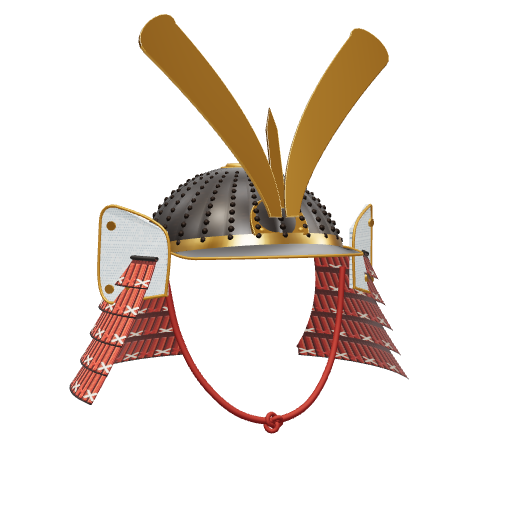
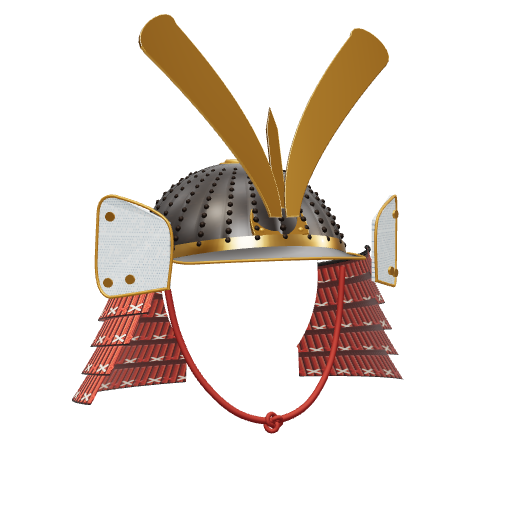
Wear the helmet like a head-wear lens
- Bowl sized for a head with hair, rim on the brows dropping to the nape
- Neck guard hangs from the rim all round; top lames come forward past
  the ears, lower ones sweep back; flaps turn back from its front edge
- Live face mesh (depth only) plus a larger skull occluder hide
  everything behind the real face and head
- Dark matte visor underside; name card shrinks after 5 s
- ?fakecam=<image> test mode runs real face tracking on a photo

Changed region(s): [[0.125, 0.3125, 0.8125, 0.8125], [0.5, 0.2188, 0.5312, 0.3125], [0.5312, 0.3125, 0.5625, 0.375]]

diff --git a/js/armour.js b/js/armour.js
@@ -26,7 +26,7 @@ const STYLES = {
     band: '#2a1810',
     visor: '#4a2a1b',
     plates: 32,
-    shikoro: { lames: 5, r0: 10.6, r1: 19.5, y0: 4.6, y1: -6.6, ez: 1.08, a0: 1.02 },
+    shikoro: { lames: 5, r0: 10.9, r1: 19.5, y0: 4.6, y1: -6.6, ez: 1.08, a0: 0.85 },
     lacing: { style: 'sugake', pal: pal('#231610', '#4a3020', '#0e0805', '#3f86a8', '#22566f', '#7fc0dc', '#c9a24a') },
     sodeLacing: { style: 'kebiki', dots: true, pal: pal('#1d120c', '#4a3020', '#0e0805', '#3c7ea0', '#1f4e66', '#78bad6', '#d8b45a') },
     doLacing: { style: 'kebiki', plateFrac: 0.55, dots: true, clouds: true, pal: pal('#21140d', '#4b3121', '#0b0604', '#3f86a8', '#22566f', '#7fc0dc', '#d8b45a') },
@@ -41,7 +41,7 @@ const STYLES = {
     band: '#c49a46',
     visor: '#140e0b',
     plates: 24,
-    shikoro: { lames: 5, r0: 10.6, r1: 16.2, y0: 4.6, y1: -8.4, ez: 1.06, a0: 1.05 },
+    shikoro: { lames: 5, r0: 10.9, r1: 16.2, y0: 4.6, y1: -8.4, ez: 1.06, a0: 0.88 },
     lacing: { style: 'kebiki', knots: true, pal: pal('#3a0f0b', '#5e1d15', '#160604', '#b8341f', '#7c1d10', '#e8724a', '#d8b45a') },
     sodeLacing: { style: 'kebiki', knots: true, pal: pal('#3a0f0b', '#5e1d15', '#160604', '#b8341f', '#7c1d10', '#e8724a', '#d8b45a') },
     doLacing: { style: 'kebiki', knots: true, pal: pal('#3a0f0b', '#5e1d15', '#160604', '#b8341f', '#7c1d10', '#e8724a', '#d8b45a') },
@@ -117,9 +117,12 @@ function lacingMat(spec, aniso, extra = {}){
 }
 
 // ------------------------------------------------------------------ the helmet bowl
-// An ellipsoid dome over the skull, its rim lower at the back than over the brow.
-const BOWL = { cy: 3.0, cz: -4.0, ax: 9.8, ay: 10.2, az: 11.2, yf: 6.0, yb: 2.6 };
-function rimPhi(t){ const y = BOWL.yb + (BOWL.yf - BOWL.yb) * (1 + Math.cos(t)) / 2; return Math.acos((y - BOWL.cy) / BOWL.ay); }
+// An ellipsoid dome over the skull, its rim on the brow at the front and dropping to the
+// nape at the back, so it covers the hair all round like a head-wear lens. It is sized
+// for a head with hair (children's heads are large for their faces), not a bald skull.
+const BOWL = { cy: 3.3, cz: -4.3, ax: 10.1, ay: 10.3, az: 11.3, yf: 5.8, yb: 0.8 };
+export const rimY = (t) => BOWL.yb + (BOWL.yf - BOWL.yb) * (1 + Math.cos(t)) / 2;
+function rimPhi(t){ return Math.acos((rimY(t) - BOWL.cy) / BOWL.ay); }
 function bowlPoint(t, s, k = 1){
   // t: angle round from the front (+z) toward +x; s: 0 at the top → 1 at the rim
   const ph = s * rimPhi(t);
@@ -176,7 +179,10 @@ function visor(mat){
     const d = [Math.sin(t), 0, Math.cos(t)];
     return [p[0] + d[0] * L * v, p[1] - 1.3 * L / 3.1 * v + 0.35 * v * v, p[2] + d[2] * L * v];
   };
-  g.add(new THREE.Mesh(surface(80, 8, f), mat.lacquer));
+  // the surface faces down: the underside is matte and dark (it shades your eyes), the top is lacquer
+  const geo = surface(80, 8, f);
+  const top = mat.lacquer.clone(); top.side = THREE.BackSide;
+  g.add(new THREE.Mesh(geo, top), new THREE.Mesh(geo, M({ color: '#140c08', roughness: 0.9, envMapIntensity: 0.15 })));
   const edge = [];
   for (let i = 0; i <= 60; i++){ const p = f(i / 60, 1); edge.push(V(...p)); }
   g.add(tube(edge, 0.13, mat.gold, { seg: 160 }));
@@ -188,21 +194,26 @@ function visor(mat){
 // lame laps over the one below, like roof tiles.
 function shikoro(st, mat, aniso){
   const S = st.shikoro, g = new THREE.Group(); g.name = 'shikoro';
-  const R = (y) => S.r0 + (S.r1 - S.r0) * ((S.y0 - y) / (S.y0 - S.y1)) ** 1.25;
-  const lh = (S.y0 - S.y1) / S.lames, over = 0.55;
+  // hung from just under the rim all the way round, so it follows the rim down to the nape;
+  // d is the depth below the rim
+  const H = S.y0 - S.y1, lh = H / S.lames, over = 0.55;
+  const R = (d) => S.r0 + (S.r1 - S.r0) * (Math.max(0, d) / H) ** 1.25;
   const arc = (r) => r * (TAU - 2 * S.a0);
   const matL = lacingMat({ ...st.lacing, lames: 1, cols: Math.round(arc((S.r0 + S.r1) / 2) / 1.0) }, aniso);
   const matLast = lacingMat({ ...st.lacing, lames: 1, cols: Math.round(arc((S.r0 + S.r1) / 2) / 1.0), knots: st.lacing.knots }, aniso);
+  let front = null;
   for (let L = 0; L < S.lames; L++){
-    const yT = S.y0 - L * lh + (L ? over : 0), yB = S.y0 - (L + 1) * lh;
+    const dT = L * lh - (L ? over : 0) - 0.5, dB = (L + 1) * lh - 0.5;
     const off = 0.32 * (S.lames - L);
-    // the front ends sweep back a little lower down, so the face stays open
-    const a0 = S.a0 + 0.06 * L;
+    // the top lames come forward past the ears and temples; the lower, wider ones sweep
+    // back so they never cross in front of the face
+    const a0 = S.a0 + 0.11 * L;
     const f = (u, v) => {
-      const t = a0 + u * (TAU - 2 * a0), y = yB + (yT - yB) * v;
-      const r = R(y) + off + 0.45 * (1 - v);
+      const t = a0 + u * (TAU - 2 * a0), d = dB + (dT - dB) * v, y = rimY(t) - d;
+      const r = R(d) + off + 0.45 * (1 - v);
       return [r * Math.sin(t), y, BOWL.cz + 0.2 + r * S.ez * Math.cos(t)];
     };
+    if (L === 0) front = { p: f(0, 0.55), t: a0 };
     const m = new THREE.Mesh(surface(120, 6, f), L === S.lames - 1 ? matLast : matL);
     m.renderOrder = 1;
     g.add(m);
@@ -212,11 +223,11 @@ function shikoro(st, mat, aniso){
       g.add(tube(e, 0.22, mat.lacquer, { seg: 160 }));
     }
   }
-  return { g, R, S };
+  return { g, R, S, front };
 }
 
 // ------------------------------------------------------------------ flaps (fukigaeshi)
-function flaps(st, mat, aniso, crestTex){
+function flaps(st, mat, aniso, crestTex, front){
   const g = new THREE.Group(); g.name = 'fukigaeshi';
   const big = st.flap.kind === 'leather';
   const W = big ? 7.2 : 6.4, Hb = big ? -3.6 : -3.0, Ht = big ? 5.4 : 4.6;
@@ -230,8 +241,11 @@ function flaps(st, mat, aniso, crestTex){
   // UVs from the flat shape, then place it: out and back from the front of the neck guard
   const p = geo.attributes.position, uv = geo.attributes.uv;
   for (let i = 0; i < p.count; i++) uv.setXY(i, p.getX(i) / (W + 0.4), (p.getY(i) + 4) / 9.6);
-  const u = V(0.82, 0, -0.57).normalize(), v = V(0, 1, 0), n = new THREE.Vector3().crossVectors(u, v);
-  const basis = new THREE.Matrix4().makeBasis(u, v, n).setPosition(9.3, 3.9, 1.6);
+  // turned back from the front edge of the top lame, out and a little back, facing forward
+  const T = front.t + 1.25;
+  const u = V(Math.sin(T), 0, Math.cos(T)), v = V(0, 1, 0), n = new THREE.Vector3().crossVectors(u, v);
+  const [ax, ay, az] = front.p;
+  const basis = new THREE.Matrix4().makeBasis(u, v, n).setPosition(ax + n.x * 0.25, ay + 0.6, az + n.z * 0.25);
   // a gentle curl, like leather over a plate
   for (let i = 0; i < p.count; i++) p.setZ(i, p.getZ(i) - 0.035 * p.getX(i) ** 2);
   geo.applyMatrix4(basis);
@@ -507,7 +521,7 @@ export function occluders(){
   const mat = new THREE.MeshBasicMaterial({ colorWrite: false });
   const g = new THREE.Group(); g.name = 'occluders';
   const head = new THREE.Mesh(new THREE.SphereGeometry(1, 40, 28), mat);
-  head.scale.set(7.4, 10.2, 8.6); head.position.set(0, 2.0, -4.5);
+  head.scale.set(7.7, 10.4, 9.0); head.position.set(0, 2.3, -4.7);
   const neck = new THREE.Mesh(new THREE.CylinderGeometry(5.6, 6.4, 22, 32), mat);
   neck.scale.set(1, 1, 0.95); neck.position.set(0, -16, -3.6);
   for (const m of [head, neck]) m.renderOrder = -1;
@@ -523,7 +537,8 @@ export function buildSuit(id, { aniso = 8, menpo: withMenpo } = {}){
   const crestTex = crestTexture(aniso);
   const root = new THREE.Group(); root.name = id;
   const head = new THREE.Group(); head.name = 'head';
-  head.add(bowl(st, mat), visor(mat), shikoro(st, mat, aniso).g, flaps(st, mat, aniso, crestTex));
+  const sk = shikoro(st, mat, aniso);
+  head.add(bowl(st, mat), visor(mat), sk.g, flaps(st, mat, aniso, crestTex, sk.front));
   if (st.horns) head.add(horns(mat));
   const face = new THREE.Group(); face.name = 'faceguard';
   face.add(menpo(st, mat, aniso));

diff --git a/js/stage.js b/js/stage.js
@@ -133,12 +133,44 @@ function hdVideo(){
     video.muted = true;
     Object.assign(video.style, { position: 'absolute', top: '0px', left: '0px', zIndex: '-2' });
     this.container.appendChild(video);
+    const fake = new URLSearchParams(location.search).get('fakecam');
+    const ready = () => { video.setAttribute('width', video.videoWidth); video.setAttribute('height', video.videoHeight); resolve(); };
+    if (fake){ video.addEventListener('loadedmetadata', ready, { once: true }); fakeStream(fake).then((s) => { video.srcObject = s; }, reject); return; }
     if (!navigator.mediaDevices?.getUserMedia){ reject(new Error('no camera API')); return; }
     navigator.mediaDevices.getUserMedia({ audio: false, video: { facingMode: 'user', width: { ideal: 1280 }, height: { ideal: 720 } } })
       .then((stream) => {
         video.addEventListener('loadedmetadata', () => { video.setAttribute('width', video.videoWidth); video.setAttribute('height', video.videoHeight); resolve(); });
         video.srcObject = stream;
       }).catch(reject);
+  });
+}
+
+// Testing without a camera: ?fakecam=<image url> plays a photo (CORS-enabled) as the selfie
+// video. &fakemove=1 sways it (roll, drift, nearer/farther) to test tracking in motion.
+function fakeStream(src){
+  return new Promise((ok, fail) => {
+    const img = new Image();
+    img.crossOrigin = 'anonymous';
+    img.onerror = () => fail(new Error('fakecam image failed to load'));
+    img.onload = () => {
+      const c = document.createElement('canvas'); c.width = 1280; c.height = 720;
+      const g = c.getContext('2d');
+      const move = new URLSearchParams(location.search).has('fakemove');
+      const zoom = parseFloat(new URLSearchParams(location.search).get('fakezoom') || '1');
+      const draw = () => {
+        const t = performance.now() / 1000;
+        g.fillStyle = '#6b6258'; g.fillRect(0, 0, c.width, c.height);
+        const k = Math.min(c.width / img.width, c.height / img.height) * zoom * (move ? 1 + 0.12 * Math.sin(t * 0.7) : 1);
+        g.save();
+        g.translate(c.width / 2 + (move ? 90 * Math.sin(t * 0.5) : 0), c.height / 2 + (move ? 30 * Math.sin(t * 0.9) : 0));
+        g.rotate(move ? 0.18 * Math.sin(t * 0.8) : 0);
+        g.drawImage(img, -img.width * k / 2, -img.height * k / 2, img.width * k, img.height * k);
+        g.restore();
+      };
+      draw(); setInterval(draw, 33);
+      ok(c.captureStream(30));
+    };
+    img.src = src;
   });
 }
 
@@ -156,7 +188,13 @@ export async function startCamera(container, { onStatus, onFace }){
   face.matrixAutoUpdate = false; face.visible = false;
   face.add(occluders());
   const torso = new THREE.Group(); torso.visible = false;
-  mindar.scene.add(face, torso);
+  // Like a head-wear lens: the live face mesh (468 landmarks, reshaped every frame) is drawn
+  // into depth only, so any part of the helmet that is behind your real face — the far flap,
+  // the far side of the neck guard when you turn — hides behind it exactly.
+  const faceOcc = mindar.addFaceMesh();
+  faceOcc.material = new THREE.MeshBasicMaterial({ colorWrite: false, side: THREE.DoubleSide });
+  faceOcc.renderOrder = -1;
+  mindar.scene.add(faceOcc, face, torso);
   common(mindar.renderer, mindar.scene, mindar.camera, face, torso);
   onStatus?.('Starting the selfie camera…');
   try { await mindar.start(); }

diff --git a/js/app.js b/js/app.js
@@ -171,7 +171,8 @@ async function select(id, { quiet = false } = {}){
   $('ncName').textContent = m.name;
   $('ncJp').textContent = `${m.jp} · ${m.kana}`;
   $('ncBlurb').textContent = m.blurb;
-  $('namecard').classList.remove('pop'); void $('namecard').offsetWidth; $('namecard').classList.add('pop');
+  $('namecard').classList.remove('pop', 'compact'); void $('namecard').offsetWidth; $('namecard').classList.add('pop');
+  clearTimeout(S.compactT); S.compactT = setTimeout(() => $('namecard').classList.add('compact'), 5000);
   overlay('carving', true);
   if (!quiet) buzz(15);
   Stage.setFaceGuard(menpoOn());
@@ -238,6 +239,7 @@ $('goBtn').addEventListener('click', () => start(false));
 $('previewBtn').addEventListener('click', () => start(true));
 $('closeBtn').addEventListener('click', () => { clearInterval(S.hintTimer); overlay('hud', false); overlay('faceGuide', false); openScan(); });
 $('factBtn').addEventListener('click', nextFact);
+$('namecard').addEventListener('click', () => { clearTimeout(S.compactT); $('namecard').classList.toggle('compact'); });
 $('shutter').addEventListener('click', takePhoto);
 $('photoBack').addEventListener('click', () => show(null));
 $('errBtn').addEventListener('click', () => { $('err').hidden = true; location.reload(); });

diff --git a/css/app.css b/css/app.css
@@ -168,3 +168,8 @@ a.btn{display:inline-flex;align-items:center;justify-content:center;text-decorat
 .tray .sep{flex:none;width:1px;margin:6px 2px;background:var(--anatomy-faint)}
 .refs{display:flex;gap:8px;justify-content:center}
 .refs img{width:84px;height:104px;object-fit:cover;border-radius:4px;box-shadow:0 0 0 1px var(--anatomy-mid),0 4px 10px #3b2a1c33}
+/* the name card shrinks to its title after a few seconds so it never hides the helmet; tap to open */
+.namecard{pointer-events:auto;cursor:pointer}
+.namecard .nc-blurb{transition:opacity .25s}
+.namecard.compact{padding-bottom:8px}
+.namecard.compact .nc-blurb{display:none}

diff --git a/README.md b/README.md
@@ -13,12 +13,22 @@ row and wear it, with its iron face guard and armour if you like, then take a ph
 1. **Camera permission.** A plain first screen asks for the camera. It is skipped if already allowed.
 2. **Scan.** MindAR *image* tracking watches the back camera until it sees the card, then shuts down.
 3. **Welcome.** A short card explains samurai armour. **Allow camera & start** starts the selfie camera.
-4. **Wear.** MindAR *face* tracking (MediaPipe Face Landmarker) follows your face. The helmet is pinned to
-   the whole-face pose (MindAR's `faceMatrix`), so it sits on your head and turns with it. Hidden stand-ins
-   for your head and neck (depth only) hide the back of the neck guard behind you, so it wraps round your
-   head instead of drawing across your face. The iron face guard is also *skinned* to the live face
-   landmarks, like a lens, so it fits your face; its mouth stays shut when you talk.
-   The armour hangs from your neck and turns only a quarter as far as your head, the way a body does.
+4. **Wear.** MindAR *face* tracking (MediaPipe Face Landmarker, 468 landmarks) follows your face, and the
+   helmet is worn the way a head-wear lens is:
+   - **Pinned to the head.** The helmet rides the whole-face pose (MindAR's `faceMatrix`), so it sits on
+     your head and turns with it.
+   - **Wraps the head.** The bowl is sized for a head with hair (children's heads are large for their faces):
+     its rim sits on the brows at the front and drops to the nape at the back. The neck guard hangs from the
+     rim all the way round and its top lames come forward past the ears and temples; the flaps turn back from
+     its front edge.
+   - **Hides behind you.** Three depth-only occluders stand in for you: the **live face mesh** (reshaped
+     every frame), a skull and a neck. Whatever is behind your real face or head (the far flap, the far side
+     of the neck guard when you turn) is hidden exactly, so the helmet goes round your head instead of
+     drawing across your face.
+   - **Fits the face.** The iron face guard is *skinned* to the live landmarks so it follows your face shape;
+     its mouth stays shut when you talk.
+   - The armour hangs from your neck and turns only a quarter as far as your head, the way a body does.
+   - The name card shrinks to its title after 5 seconds so it never hides the helmet; tap it to open it.
 5. **Toggles.** **Face guard** puts the menpō on or off (off, a red silk chin cord ties the helmet on).
    **Armour** shows or hides the cuirass, shoulder guards and skirt.
 6. **Photo.** The round button saves the mirrored selfie with the armour and a small caption plate.
@@ -70,7 +80,13 @@ holds the token set; the kit is in [`vendor/anatomy/`](vendor/anatomy); the skil
 powershell -ExecutionPolicy Bypass -File tools/serve.ps1
 ```
 
-Then open http://localhost:8127/. On a phone the page must be served over HTTPS (for example GitHub Pages,
+Then open http://localhost:8127/.
+
+**Testing face tracking without a camera:** `?demo=1&fakecam=<image url>` plays a photo (it must allow
+cross-origin use, as Wikimedia Commons images do) as the selfie video, and real face tracking runs on it.
+`&fakezoom=2` brings the face closer and `&fakemove=1` sways it. For example,
+`?demo=1&suit=tosei&fakezoom=2.4&fakecam=https%3A%2F%2Fthumb.wikimedia.org%2Fwikipedia%2Fcommons%2Fthumb%2F0%2F06%2FBoy_smiling.jpg%2F960px-Boy_smiling.jpg`
+(“Boy smiling”, CC BY 2.0, Wikimedia Commons). On a phone the page must be served over HTTPS (for example GitHub Pages,
 like the other repos), because phones only allow the camera on secure pages.
 
 Version pins: `mind-ar@1.2.5` needs `three@0.160.0`, because three r162 removed `sRGBEncoding`.
